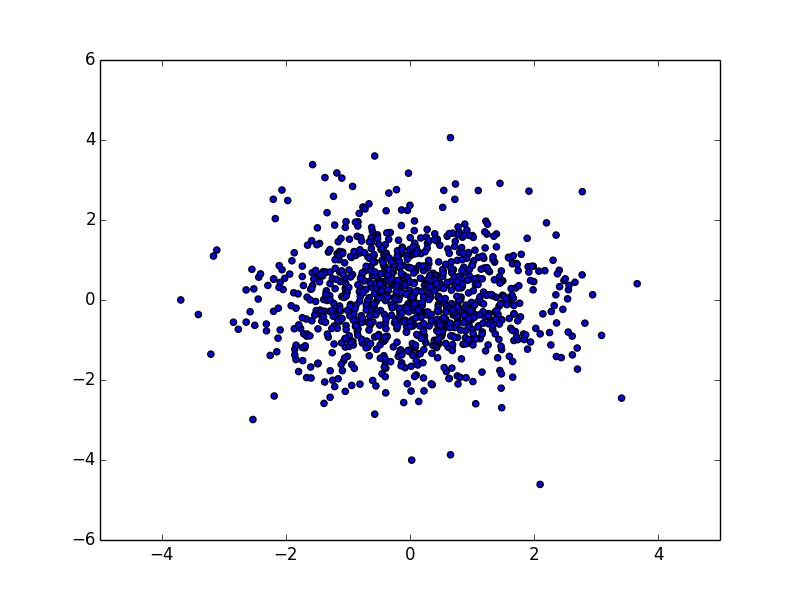
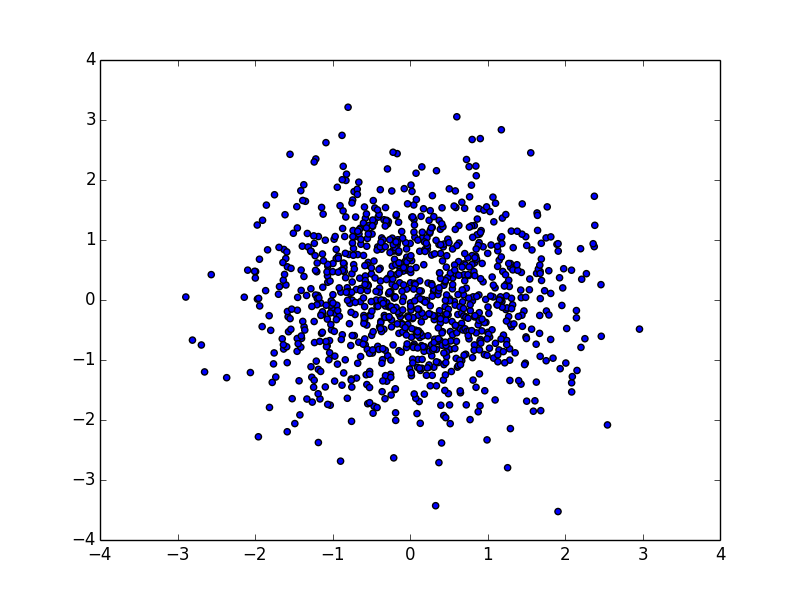
can't get aevb to converge

diff --git a/autopaint/aevb.py b/autopaint/aevb.py
@@ -20,8 +20,8 @@ def lower_bound(weights,encode,decode_log_like,N_weights_enc,train_images,sample
     train_images_repeat = np.repeat(train_images,samples_per_image,axis=0)
     mean_log_prob = decode_log_like(dec_w,Z_samples,train_images_repeat)
     kl_vect = neg_kl_diag_normal(mus,sigs)
-    print "ll average", mean_log_prob.value
-    print "kl average", np.mean(kl_vect).value
+    # print "ll average", mean_log_prob.value
+    # print "kl average", np.mean(kl_vect).value
     return mean_log_prob+np.mean(kl_vect)
 
 def build_encoder(enc_layers):
@@ -59,10 +59,6 @@ def run_aevb(train_images):
     dec_w = rs.randn(N_weights_dec) * param_scale
 
     weights = np.concatenate((enc_w,dec_w))
-
-    def lower_bound_test(weights):
-        rs = npr.RandomState(0)
-        return lower_bound(weights,encoder,decoder_log_like,N_weights_enc,train_images,samples_per_image,latent_dimensions,rs)
 
     batch_idxs = make_batches(train_images.shape[0], batch_size)
 
@@ -104,5 +100,5 @@ if __name__ == '__main__':
     #     N_data, train_images, train_labels, test_images, test_labels = pickle.load(f)
     # #
 
-    train_images = np.random.multivariate_normal(np.zeros(2),np.array([[1,.9],[.9,1]]),1000)
+    train_images = np.random.multivariate_normal(np.zeros(2),np.array([[1,0],[0,1]]),1000)
     run_aevb(train_images)
